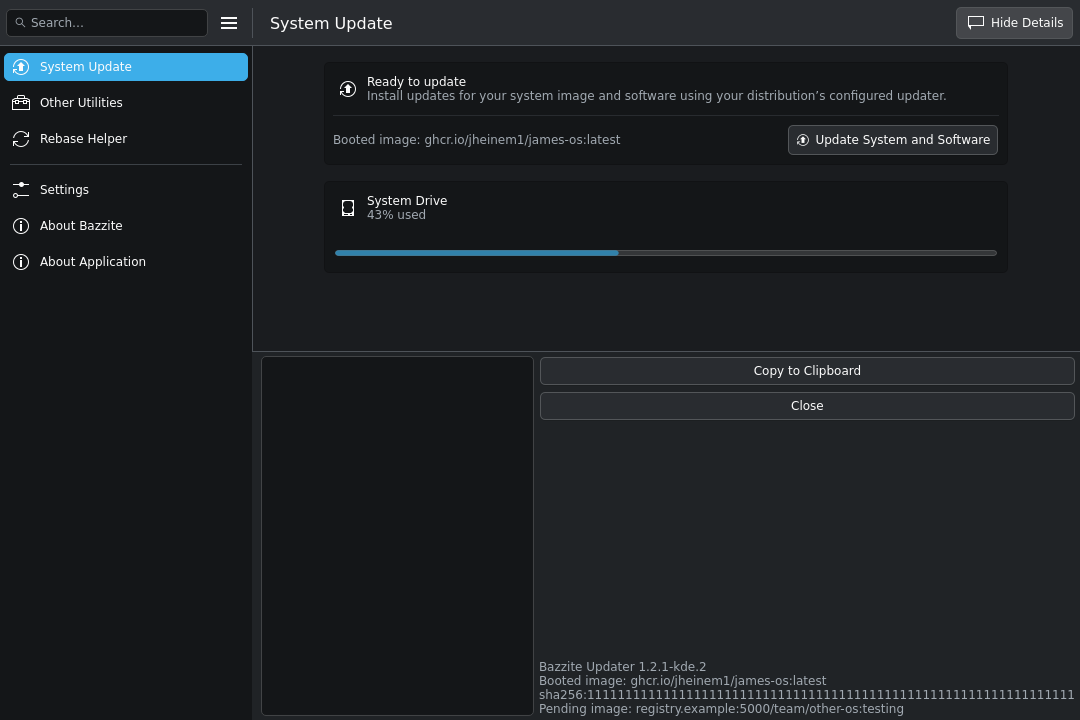
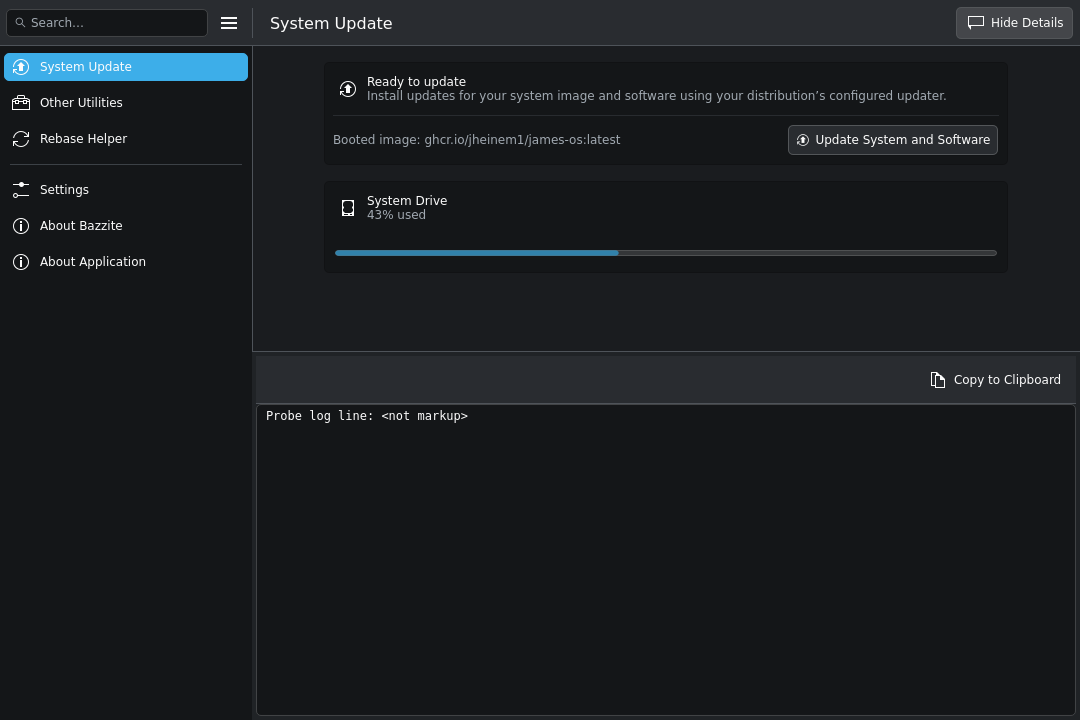
Give update details a full-width log and top copy action

diff --git a/src/components/console/ConsoleDrawer.qml b/src/components/console/ConsoleDrawer.qml
@@ -14,38 +14,50 @@ Kirigami.OverlayDrawer {
     id: root
 
     required property var model
-    default property alias extraColumnItems: columnAdditional.data
-
     property alias buttonClipboard: copy
-    property alias buttonClose: closeBtn
-
     property string includeAtStart: ""
 
     edge: Qt.BottomEdge
-
     modal: false
     drawerOpen: UserSettings.preferConsole
-
     interactiveResizeEnabled: true
-
     maximumSize: parent.height - Kirigami.Units.gridUnit * 2.5
     preferredSize: parent.height * 0.5
 
     function handleInput(buttonId, button_down) {
         if (!button_down)
             return;
-
         switch (buttonId) {
         case 2: // X
             copy.animateClick();
             break;
         case 3: // Y
-            closeBtn.animateClick();
+            root.close();
             break;
         }
     }
 
-    contentItem: RowLayout {
+    contentItem: ColumnLayout {
+        spacing: 0
+
+        ToolBar {
+            Layout.fillWidth: true
+            RowLayout {
+                anchors.fill: parent
+                Item { Layout.fillWidth: true }
+                ToolButton {
+                    id: copy
+                    objectName: "detailsCopyButton"
+                    text: i18n("Copy to Clipboard")
+                    icon.name: "edit-copy"
+                    Accessible.name: text
+                    onClicked: {
+                        root.model.copyToClipboard(root.includeAtStart + "\n");
+                        showPassiveNotification(i18n("Text Copied"), Kirigami.short);
+                    }
+                }
+            }
+        }
 
         GP.ScrollHandler {
             target: consoleView.scrollBar
@@ -53,37 +65,11 @@ Kirigami.OverlayDrawer {
 
         ConsoleView {
             id: consoleView
+            objectName: "detailsLogView"
             model: root.model
             Layout.fillWidth: true
             Layout.fillHeight: true
-            Layout.horizontalStretchFactor: 1
-        }
-
-        ColumnLayout {
-            Layout.alignment: Qt.AlignTop
-
-            Button {
-                id: copy
-
-                Layout.fillWidth: true
-                text: i18n("Copy to Clipboard")
-                onClicked: {
-                    root.model.copyToClipboard(root.includeAtStart + "\n");
-                    showPassiveNotification(i18n("Text Copied"), Kirigami.short);
-                }
-            }
-
-            Button {
-                id: closeBtn
-                Layout.fillWidth: true
-                text: i18n("Close")
-                onClicked: root.close()
-            }
-
-            ColumnLayout {
-                id: columnAdditional
-                Layout.alignment: Qt.AlignTop
-            }
+            Accessible.name: i18n("Update details log")
         }
     }
 }

diff --git a/src/pages/system_update/SystemUpdate.qml b/src/pages/system_update/SystemUpdate.qml
@@ -25,14 +25,14 @@ AppPage {
         if (button_down == false)
             return;
 
-        switch (buttonId) {
-        case 0: // A
-            updateButton.animateClick();
+        if (consoleDrawer.drawerOpen) {
+            consoleDrawer.handleInput(buttonId, button_down);
             return;
         }
 
-        if (consoleDrawer.drawerOpen) {
-            consoleDrawer.handleInput(buttonId, button_down);
+        switch (buttonId) {
+        case 0: // A
+            updateButton.animateClick();
             return;
         }
 
@@ -249,19 +249,5 @@ AppPage {
             return list.join('\n');
         }
 
-        Item {
-            Layout.fillHeight: true
-        }
-
-        // displays useful information in a page users usually screenshot when something goes wrong
-        QQC2.Label {
-            text: consoleDrawer.includeAtStart
-            color: systemPalette.placeholderText
-        }
-
-        SystemPalette {
-            id: systemPalette
-            colorGroup: SystemPalette.Active
-        }
     }
 }

diff --git a/tests/ui_probe.cpp b/tests/ui_probe.cpp
@@ -9,6 +9,7 @@
 #include "system_update.h"
 #include "utils.h"
 #include <QApplication>
+#include <QClipboard>
 #include <QDir>
 #include <QFile>
 #include <QJsonArray>
@@ -234,6 +235,30 @@ void startUiProbe(QQmlApplicationEngine &engine, QApplication &app)
         QTest::keyClick(window, Qt::Key_F12);
         QTest::qWait(350);
         check("F12 opens details", named("updateConsole") && named("updateConsole")->property("drawerOpen").toBool());
+        auto *detailsBackend = engine.singletonInstance<SystemUpdateBackend *>("io.github.rfrench3.bazzite_updater", "SystemUpdateBackend");
+        detailsBackend->m_console->newLine("Probe log line: <not markup>", Console::LogLevel::Info);
+        QTest::qWait(150);
+        auto *logView = qobject_cast<QQuickItem *>(named("detailsLogView"));
+        auto *copyButton = qobject_cast<QQuickItem *>(named("detailsCopyButton"));
+        check("details log uses full panel width", logView && logView->width() >= named("updateConsole")->property("width").toDouble() - 25);
+        check("copy action is above log output",
+              copyButton && logView && copyButton->mapToScene(QPointF(0, copyButton->height())).y() <= logView->mapToScene(QPointF(0, 0)).y() + 2);
+        if (copyButton)
+            QTest::mouseClick(window,
+                              Qt::LeftButton,
+                              Qt::NoModifier,
+                              copyButton->mapToScene(QPointF(copyButton->width() / 2, copyButton->height() / 2)).toPoint());
+        check("top copy action retains complete log", QApplication::clipboard()->text().contains("Probe log line: <not markup>"));
+        evaluate("root.hidePassiveNotification()");
+        evaluate("GP.Gamepad.buttonEvent(0, true)");
+        check("controller A in details cannot start an update", !appState.commandRunning());
+        evaluate("GP.Gamepad.buttonEvent(3, true)");
+        QTest::qWait(350);
+        check("controller Y closes details without a Close button", !named("updateConsole")->property("drawerOpen").toBool());
+        QTest::keyClick(window, Qt::Key_F12);
+        QTest::qWait(350);
+        check("F12 reopens details after controller close", named("updateConsole")->property("drawerOpen").toBool());
+
         screenshot("details");
         QTest::keyClick(window, Qt::Key_Escape);
         QTest::qWait(350);

diff --git a/tests/test_desktop_contract.py b/tests/test_desktop_contract.py
@@ -64,6 +64,14 @@ class DesktopContract(unittest.TestCase):
         for path in (ROOT / "src/pages").rglob("*.qml"):
             self.assertNotIn('icon.name: "utilities-terminal"', path.read_text())
 
+    def test_details_layout_prioritizes_log_output(self):
+        drawer = (ROOT / "src/components/console/ConsoleDrawer.qml").read_text()
+        self.assertIn("contentItem: ColumnLayout", drawer)
+        self.assertNotIn("closeBtn", drawer)
+        self.assertNotIn("columnAdditional", drawer)
+        page = (ROOT / "src/pages/system_update/SystemUpdate.qml").read_text()
+        self.assertNotIn("text: consoleDrawer.includeAtStart", page)
+
     def test_original_license_and_policy_are_separate(self):
         self.assertTrue((ROOT / "LICENSES/GPL-2.0-or-later.txt").is_file())
         self.assertIn("not an additional license restriction", (ROOT / "CONTRIBUTING.md").read_text())

diff --git a/docs/VERIFICATION.md b/docs/VERIFICATION.md
@@ -5,15 +5,16 @@ Desktop fork `1.2.1-kde.2`, based on upstream `172c28adf55bb71bab0592c3b72e7c555
 ## Local checks
 
 - Built the upstream baseline and the redesigned application using the already-installed KDE 6.11 SDK on james-os (Qt 6.11.3).
-- Ten source-contract tests passed.
+- Eleven source-contract tests passed.
 - The pure QtCore deployment parser passed 458 checks with strict compiler warnings. Cases cover signed/unverified references, registry ports, digests, custom images, missing and malformed data, rpm-ostree boot ordering, bootc queued rollback, and download-only staging.
-- The native Qt/Kirigami probe passed 74 checks in Breeze Light and 74 in Breeze Dark. These include screenshot-save assertions, not 148 separate end-user flows.
+- The native Qt/Kirigami probe passed 80 checks in Breeze Light and 80 in Breeze Dark. These include screenshot-save assertions, not 160 separate end-user flows.
 - Visually inspected the rendered overview, search results/empty state, application menu, Settings, Details, narrow 840×600 window, and larger-text view. The baseline overview is 1080×720.
 - Search/menu checks cover Ctrl+F, Enter, Escape, F10, matching feature keywords, no-result feedback, query preservation, controller Menu/A/B, keyboard menu activation, disabled reboot skipping, and reboot confirmation.
 - Gamepad signals and connected-controller label strings were injected in the development probe. Physical gamepad hardware was not tested.
 - Added guarded-quit cancellation, keyboard Tab traversal, populated update-step rendering, rebase-page opening, and successful-state → failed-retry checks after independent review. A failed retry now clears prior completion feedback.
 - Actual mouse press/release tests cover opening the hamburger, closing it with a second click, and clicking outside. Keyboard checks cover F10 opening, Escape dismissal, and menu action activation.
 - Deployment UI tests show booted and pending images separately, retain distinct digests, expose missing identity, preserve configured targets in other registry groups, and show custom images in Rebase Helper.
+- Details tests cover full-width output, copy action placement and full copied text, F12 reopen, Escape/controller dismissal without a Close button, and preventing controller A from starting an update while reading logs.
 - No real system update, rollback, rebase, or reboot was performed. Native release packaging, installation, and downstream image checks are recorded separately with each release.
 
 The probe has a compile-time command-execution guard. It renders synthetic display data and changes only its isolated settings/output directory. Release builds must have `BAZZITE_UPDATER_UI_PROBE=OFF`.

diff --git a/docs/DESKTOP-DESIGN.md b/docs/DESKTOP-DESIGN.md
@@ -15,7 +15,7 @@ This is a focused first pass, not certification of complete KDE HIG compliance.
 - Disabled actions use `trigger()` rather than emitting their signal directly, preserving their enabled guard for controller invocation.
 - Image identity comes from the booted deployment, not inherited image-info.json. The next-boot deployment is a separate role, including finalized rpm-ostree deployments and queued bootc rollbacks; download-only staged images are not called next-boot images. Missing identity remains explicit. Base distribution metadata has its own labelled section.
 - Custom images are shown accurately in Rebase Helper without inventing rebase targets or changing configured signature policies. Feature filtering stays scoped to each configured target group.
-- Details is a read-only log viewer and uses a log icon. A real embedded Konsole requires separate lifecycle and input isolation work.
+- Details is a read-only log viewer and uses a log icon. A compact toolbar puts Copy to Clipboard above full-width output; no separate Close button or visible metadata column competes with the log. The existing Hide Details toggle, F12, Escape, and controller Y dismiss it. A real embedded Konsole requires separate lifecycle and input isolation work.
 - Normal startup retains KDE's font, palette, style, and accent. Light/dark preview overrides exist only in the opt-in regression build.
 - Context properties needed by QML are initialized before loading the UI.
 
